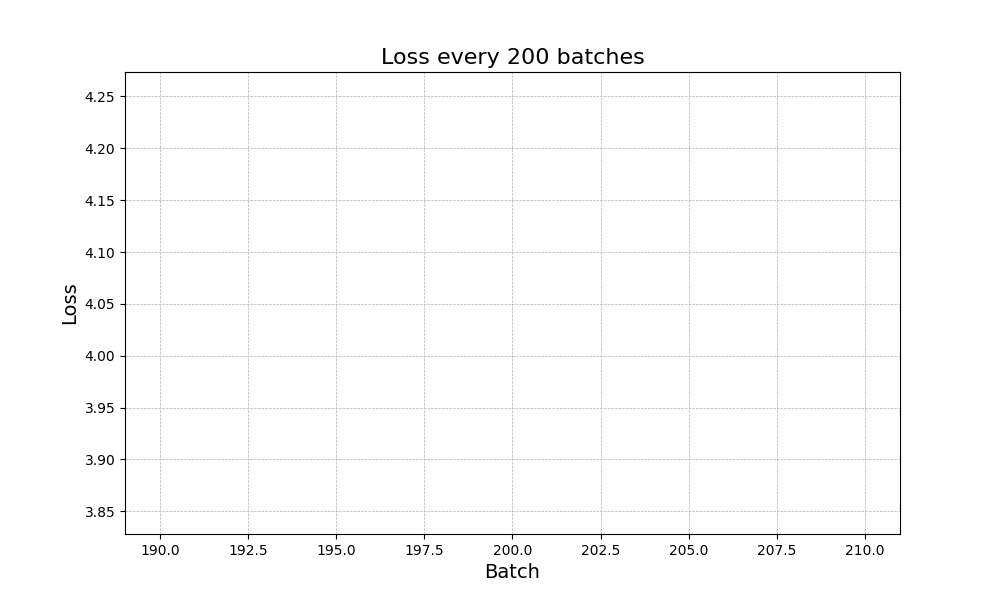
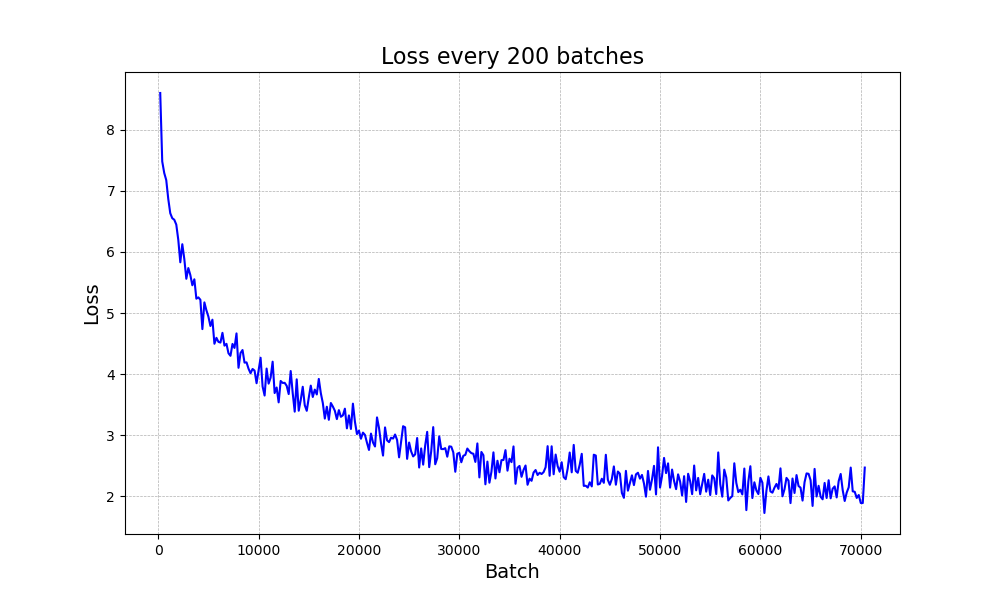
效果很好

diff --git a/test_f.py b/test_f.py
@@ -1,0 +1,155 @@
+import torch
+import torch.nn as nn
+import torch.nn.functional as F
+from model import Transformer
+from torch.utils.data import TensorDataset, DataLoader
+from nltk.translate.bleu_score import corpus_bleu, SmoothingFunction
+from mask import create_masks
+from tqdm import tqdm
+import numpy as np
+from transformers import FSMTTokenizer
+import os
+
+
+# 超参数设置（与论文一致）
+SRC_VOCAB_SIZE = 58101  # 根据论文，WMT 2014 数据集使用了 37000 的源语言词汇表
+TGT_VOCAB_SIZE = 58101  # 目标语言词汇表大小
+D_MODEL = 512  # 模型维度 512
+NUM_HEADS = 8  # 多头注意力头数
+NUM_LAYERS = 6  # 编码器和解码器的层数
+D_FF = 2048  # 前馈网络的隐藏层维度
+MAX_SEQ_LENGTH = 128  # 最大序列长度  128
+BATCH_SIZE = 64  # 每批次大小
+EPOCHS = 1   # 训练周期数  10
+LEARNING_RATE = 0.0001  # 学习率
+WARMUP_STEPS = 4000  # 论文中的 warmup 步数
+
+
+
+# 加载处理好的英文和德文索引数据
+# en_idx 是英文句子的索引表示，de_idx 是德文句子的索引表示
+en_idx = torch.load('./en_processed_test_indexes.pt')
+de_idx = torch.load('./de_processed_test_indexes.pt')
+# 为了提高测试速度，这里只选取前 100000 个样本进行测试
+# 直接选取前 100000 个样本，可根据实际情况调整
+en_idx = en_idx[:100000]
+de_idx = de_idx[:100000]
+
+# 加载预训练的分词器，用于将索引和词元进行转换
+# 这里的路径指向预训练的分词器所在位置
+tokenizer = FSMTTokenizer.from_pretrained('./wmt19-en-de')
+
+# 创建测试数据集和数据加载器
+# TensorDataset 将英文和德文索引数据组合成一个数据集
+test_dataset = TensorDataset(en_idx, de_idx)
+# DataLoader 用于批量加载数据，这里设置批量大小为 32，不进行数据打乱
+test_dataloader = DataLoader(test_dataset, batch_size=32, shuffle=False)
+
+# 加载 Transformer 模型
+# TransformerConfig 是模型的配置类，用于初始化模型的参数
+# 创建模型
+model = Transformer(
+        src_vocab_size=SRC_VOCAB_SIZE,
+        tgt_vocab_size=TGT_VOCAB_SIZE,
+        d_model=D_MODEL,
+        num_heads=NUM_HEADS,
+        num_layers=NUM_LAYERS,
+        d_ff=D_FF,
+        max_seq_length=MAX_SEQ_LENGTH,
+        dropout=0.1)
+# 检查是否有可用的 GPU，如果有则使用 GPU 进行计算，否则使用 CPU
+device = torch.device("cuda" if torch.cuda.is_available() else "cpu")
+# 将模型移动到指定设备上
+model = model.to(device)
+# 加载预训练的模型权重
+# 这里的路径指向保存的模型权重文件
+model.load_state_dict(torch.load('./transformer_epoch_1_weights.pth'))
+# 将模型设置为评估模式，关闭一些在训练时使用的特殊层（如 Dropout）
+model.eval()
+
+# 定义损失函数
+# 使用交叉熵损失函数，忽略填充索引（这里填充索引为 1）
+criterion = nn.CrossEntropyLoss(ignore_index=1)
+
+# 添加平滑函数，用于计算 BLEU 分数时避免出现零分情况
+smoother = SmoothingFunction()
+
+def index_to_token(seq):
+    """
+    将索引序列转换为词元序列
+    :param seq: 索引序列
+    :return: 词元序列
+    """
+    return tokenizer.convert_ids_to_tokens(seq)
+
+def get_seq_before_eos(seq):
+    """
+    获取 EOS（结束标记）之前的序列
+    :param seq: 输入序列
+    :return: EOS 之前的序列
+    """
+    try:
+        # 查找 EOS 标记（索引为 2）的位置
+        eos_index = seq.index(2)
+        # 返回 EOS 之前的序列
+        return seq[:eos_index]
+    except ValueError:
+        # 如果序列中没有 EOS 标记，则返回整个序列
+        return seq
+
+# 初始化两个列表，用于存储所有的预测结果和目标结果
+all_preds = []
+all_targets = []
+
+# 禁用梯度计算，减少内存消耗并提高计算速度
+with torch.no_grad():
+    # 遍历测试数据加载器中的每个批次
+    for src, tgt in tqdm(test_dataloader, desc="Testing"):
+        # 将源序列（英文）和目标序列（德文）移动到指定设备上
+        src = src.to(device)
+        tgt = tgt.to(device)
+
+
+        # 模型进行前向传播，得到预测结果
+        output = model(src, tgt[:, :-1])
+
+        # 获取预测结果，通过取最大值的索引得到每个位置的预测词元索引
+        preds = output.argmax(dim=-1).cpu().numpy()
+        # 获取目标序列的真实词元索引，去掉第一个开始标记
+        targets = tgt[:, 1:].cpu().numpy()
+
+        # 遍历每个批次中的每个样本
+        for pred, target in zip(preds, targets):
+            # 获取预测结果中 EOS 之前的序列
+            pred_before_eos = get_seq_before_eos(pred.tolist())
+            # 获取目标结果中 EOS 之前的序列
+            target_before_eos = get_seq_before_eos(target.tolist())
+
+            # 将索引序列转换为词元序列
+            token_pred = index_to_token(pred_before_eos)
+            token_target = index_to_token(target_before_eos)
+
+            # 将预测结果和目标结果添加到对应的列表中
+            all_preds.append(token_pred)
+            all_targets.append([token_target])
+
+# 计算 BLEU 分数
+# corpus_bleu 用于计算整个语料库的 BLEU 分数
+# smoother.method1 是平滑函数，weights 是不同 n-gram 的权重
+bleu_score = corpus_bleu(all_targets, all_preds,
+                         smoothing_function=smoother.method1,
+                         weights=(0.25, 0.25, 0.25, 0.25))
+
+# 打印 BLEU 分数，保留四位小数
+print(f"BLEU Score: {bleu_score:.4f}")
+
+# 打印翻译示例
+print("\n翻译示例:")
+# 只打印前 5 个翻译示例，如果样本数不足 5 个，则打印所有样本
+for i in range(min(5, len(all_preds))):
+    # 将词元序列转换为完整的句子
+    target_sentence = tokenizer.convert_tokens_to_string(all_targets[i][0])
+    pred_sentence = tokenizer.convert_tokens_to_string(all_preds[i])
+    # 打印目标译文和模型译文
+    print(f"\n目标译文: {target_sentence}")
+    print(f"模型译文: {pred_sentence}")

diff --git a/train.py b/train.py
@@ -1,5 +1,5 @@
 import os
-from torch.utils.data import DataLoader
+from torch.utils.data import DataLoader,TensorDataset
 import torch
 import torch.nn as nn
 import torch.optim as optim
@@ -11,14 +11,14 @@ from data_processing import load_and_process_data  # 假设数据处理在 data_
 from transformers import MarianTokenizer
 
 # 超参数设置（与论文一致）
-SRC_VOCAB_SIZE = 100000  # 根据论文，WMT 2014 数据集使用了 37000 的源语言词汇表
-TGT_VOCAB_SIZE = 100000  # 目标语言词汇表大小
-D_MODEL = 256  # 模型维度 512
+SRC_VOCAB_SIZE = 58101  # 根据论文，WMT 2014 数据集使用了 37000 的源语言词汇表
+TGT_VOCAB_SIZE = 58101  # 目标语言词汇表大小
+D_MODEL = 512  # 模型维度 512
 NUM_HEADS = 8  # 多头注意力头数
 NUM_LAYERS = 6  # 编码器和解码器的层数
 D_FF = 2048  # 前馈网络的隐藏层维度
 MAX_SEQ_LENGTH = 128  # 最大序列长度  128
-BATCH_SIZE = 16  # 每批次大小
+BATCH_SIZE = 64  # 每批次大小
 EPOCHS = 1   # 训练周期数  10
 LEARNING_RATE = 0.0001  # 学习率
 WARMUP_STEPS = 4000  # 论文中的 warmup 步数
@@ -53,12 +53,17 @@ def train():
     # 设置设备
     device = torch.device("cuda" if torch.cuda.is_available() else "cpu")
 
-    # 加载数据
-    train_data, valid_data = load_and_process_data()
+    # 加载预处理后的索引数据
+    en_idx = torch.load('./en_processed_indexes.pt')
+    de_idx = torch.load('./de_processed_indexes.pt')
 
-    # DataLoader
-    train_dataloader = DataLoader(train_data, batch_size=BATCH_SIZE, shuffle=True)
-    valid_dataloader = DataLoader(valid_data, batch_size=BATCH_SIZE, shuffle=False)
+    # 创建数据集和数据加载器
+    dataset = TensorDataset(en_idx, de_idx)  # 将英文和德文数据配对
+    dataloader = DataLoader(
+        dataset,
+        batch_size=BATCH_SIZE,
+        shuffle=True  # 每个epoch前打乱数据
+    )
 
     # 创建模型
     model = Transformer(
@@ -73,7 +78,7 @@ def train():
     ).to(device)
 
     # 损失函数和优化器
-    criterion = nn.CrossEntropyLoss(ignore_index=0)  # 忽略填充符
+    criterion = nn.CrossEntropyLoss(ignore_index=1)  # 忽略填充符
     optimizer = optim.Adam(model.parameters(), lr=LEARNING_RATE, betas=(0.9, 0.98), eps=1e-9)
     scheduler = TransformerLRScheduler(d_model=D_MODEL, warmup_steps=WARMUP_STEPS)
 
@@ -89,28 +94,14 @@ def train():
     for epoch in range(EPOCHS):
         model.train()
         train_loss = 0
-        batch_iterator = tqdm(train_dataloader, desc=f"Epoch {epoch + 1}", leave=False)
+        batch_iterator = tqdm(dataloader, desc=f"Epoch {epoch + 1}", leave=False)
 
-        for batch in batch_iterator:
-            src_batch = batch['input_ids']
-            src_batch = [tensor.to(device) for tensor in src_batch]
-
-            tgt_batch = batch['labels']
-            tgt_batch = [tensor.to(device) for tensor in tgt_batch]
-
-
-
-           
-
-            src = torch.stack(src_batch).to(device)
-            tgt = torch.stack(tgt_batch).to(device)
-            # 生成 mask
-            src_mask, tgt_mask = model.generate_mask(src, tgt)
+        for src_batch, tgt_batch in batch_iterator:
+            src_batch = src_batch.to(device)
+            tgt_batch = tgt_batch.to(device)
 
             optimizer.zero_grad()
-            src_batch = torch.stack(src_batch).to(device)
-            tgt_batch = torch.stack(tgt_batch).to(device)
-            output = model(src_batch, tgt_batch[:, :-1])
+
             output = model(src_batch, tgt_batch[:, :-1])
             
             # 计算损失
@@ -137,7 +128,7 @@ def train():
                     'Learning Rate': current_lr
                 })
 
-        epoch_loss = train_loss / len(train_dataloader)
+        epoch_loss = train_loss / len(dataloader)
         print(f'🚀 Epoch {epoch + 1}/{EPOCHS} Loss: {epoch_loss:.4f}')
 
         # 每个epoch结束后保存模型
@@ -162,9 +153,6 @@ def train():
             for log in epoch_log_data:
                 writer.writerow(log)
 
-        # 每个epoch结束后进行验证
-        validate(valid_dataloader, model, criterion, device)
-
     # 保存每200个batch的训练日志
     batch_csv_save_path = 'batch_training_logs.csv'
     os.makedirs(os.path.dirname(batch_csv_save_path), exist_ok=True)
@@ -176,22 +164,6 @@ def train():
             writer.writerow(log)
     print(f"每200个batch训练日志已保存到 {batch_csv_save_path}")
 
-# 验证过程
-def validate(valid_dataloader, model, criterion, device):
-    model.eval()
-    total_loss = 0.0
-    with torch.no_grad():
-        for src_batch, tgt_batch in valid_dataloader:
-            src_batch = src_batch.to(device)
-            tgt_batch = tgt_batch.to(device)
-
-            src_mask, tgt_mask = model.generate_mask(src_batch, tgt_batch)
-            output = model(src_batch, tgt_batch[:, :-1])
-
-            loss = criterion(output.view(-1, TGT_VOCAB_SIZE), tgt_batch[:, 1:].contiguous().view(-1))
-            total_loss += loss.item()
-
-    print(f"Validation Loss: {total_loss / len(valid_dataloader):.4f}")
 
 # 启动训练
 if __name__ == "__main__":

diff --git a/model.py b/model.py
@@ -4,6 +4,19 @@ import math
 import torch
 
 
+def initialize_weights(module):
+    """
+    初始化网络权重
+    - 线性层使用Xavier均匀初始化
+    - 嵌入层使用Xavier均匀初始化
+    """
+    if isinstance(module, nn.Linear):
+        nn.init.xavier_uniform_(module.weight)
+        if module.bias is not None:
+            nn.init.zeros_(module.bias)
+    elif isinstance(module, nn.Embedding):
+        nn.init.xavier_uniform_(module.weight)
+
 #Realize Multihead attention
 class MultiHeadAttention(nn.Module):
     def __init__(self,d_model,num_heads):  
@@ -19,6 +32,10 @@ class MultiHeadAttention(nn.Module):
         self.W_k = nn.Linear(d_model,d_model)
         self.W_v = nn.Linear(d_model,d_model)
         self.W_o = nn.Linear(d_model,d_model)
+        initialize_weights(self.W_k)
+        initialize_weights(self.W_q)
+        initialize_weights(self.W_v)
+        initialize_weights(self.W_o)
 
 
 
@@ -90,6 +107,8 @@ class PositionWiseFeedForward(nn.Module):
         self.fc1 = nn.Linear(d_model,d_ff)
         self.fc2 = nn.Linear(d_ff,d_model)
         self.relu = nn.ReLU()
+        initialize_weights(self.fc1)
+        initialize_weights(self.fc2)
 
     def forward(self,x):
         return self.fc2(self.relu(self.fc1(x)))
@@ -171,23 +190,18 @@ class Transformer(nn.Module):
         self.dropout = nn.Dropout(dropout)
 
     def generate_mask(self, src, tgt):
-
-
-
         # 源掩码：屏蔽填充符（假设填充符索引为0）
         # 形状：(batch_size, 1, 1, seq_length)
-        src_mask = (src != 0).unsqueeze(1).unsqueeze(2)
+        src_mask = (src != 1).unsqueeze(1).unsqueeze(2)
    
         # 目标掩码：屏蔽填充符和未来信息
         # 形状：(batch_size, 1, seq_length, 1)
-        tgt_mask = (tgt != 0).unsqueeze(1).unsqueeze(3)
+        tgt_mask = (tgt != 1).unsqueeze(1).unsqueeze(3)
         seq_length = tgt.size(1)
         # 生成上三角矩阵掩码，防止解码时看到未来信息
         device = tgt_mask.device
         nopeak_mask = (1 - nn.functional.pad(torch.ones(1, seq_length, seq_length - 1), (0, 1))).to(device).bool()
-
         
-
         tgt_mask = tgt_mask & nopeak_mask  # 合并填充掩码和未来信息掩码
         return src_mask, tgt_mask
     

diff --git a/mask.py b/mask.py
@@ -1,0 +1,11 @@
+import torch
+import numpy as np
+def create_masks(src, trg,pad,device):
+    src_mask = (src != pad).unsqueeze(1).unsqueeze(2).to(device)
+    trg_mask = None
+    if trg is not None:
+        trg_seq_len = trg.size(1)        
+        nopeak_mask = torch.from_numpy(np.triu(np.ones((1, 1, trg_seq_len, trg_seq_len)), k=1) == 0).to(device)
+        trg_base_mask = (trg != pad).unsqueeze(1).unsqueeze(2).to(device)
+        trg_mask = trg_base_mask & nopeak_mask
+    return src_mask, trg_mask
